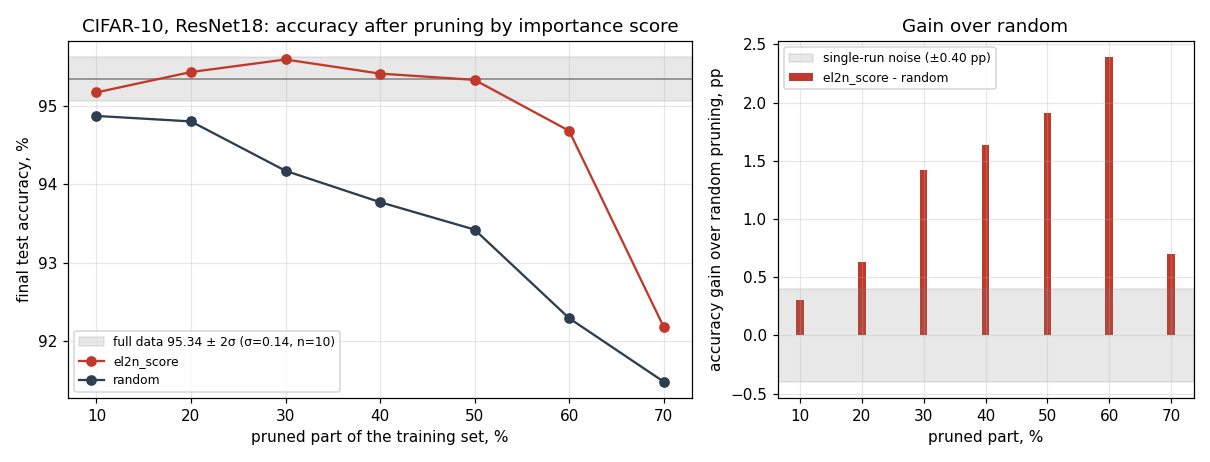
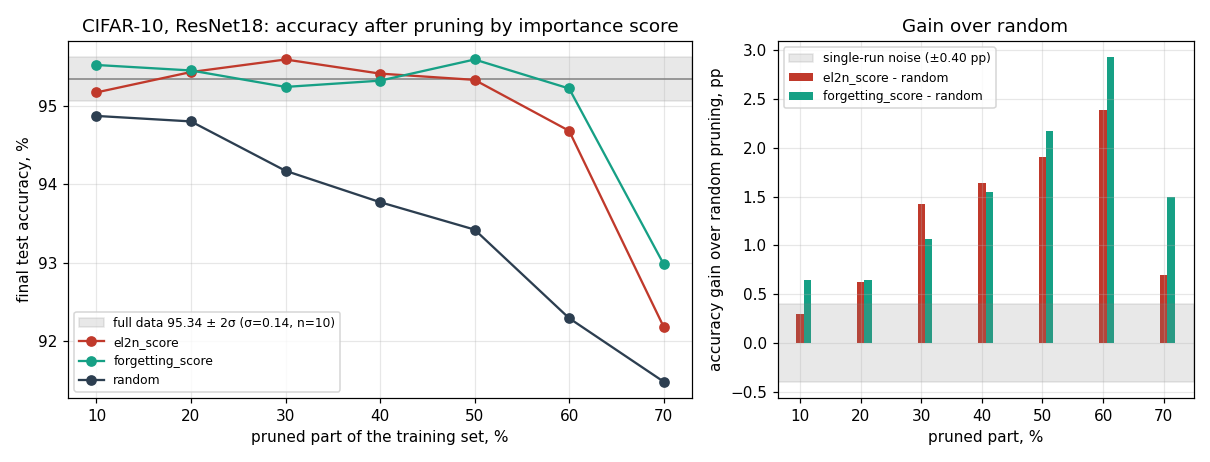
сравнение с pruning по forgetitng score

diff --git a/hw2/data_diet_pytorch/collect_pruning_results.py b/hw2/data_diet_pytorch/collect_pruning_results.py
@@ -1,0 +1,75 @@
+"""Rebuild results/pruning_sweep/pruning_results.csv from EVERY finished pruning run on disk.
+
+    python collect_pruning_results.py [--log-to-mlflow]
+
+run_pruning_sweep.py writes the table from the runs of its own invocation only, so a later sweep (another score type)
+overwrites the rows of earlier ones. This script reads the run directories themselves (exps/pruning/<score type>/
+prune_XX/seed_YYY, valid manifest required) and therefore always gives the complete picture. Then run
+plot_pruning_results.py to draw all score types together.
+"""
+import argparse
+import sys
+from pathlib import Path
+
+import pandas as pd
+from mlflow import MlflowClient
+
+from prune_and_train import PRUNING_ROOT, result_row_from_directory
+from run_logging import MLFLOW_TRACKING_URI, verify_run_directory
+
+RESULTS_DIRECTORY = Path(__file__).resolve().parent / "results" / "pruning_sweep"
+
+
+def collect_finished_runs(pruning_root: Path) -> pd.DataFrame:
+    rows, unfinished = [], []
+    for run_directory in sorted(pruning_root.glob("*/prune_*/seed_*")):
+        if verify_run_directory(run_directory):
+            unfinished.append(str(run_directory))
+            continue
+        score_type = run_directory.parents[1].name
+        prune_fraction = int(run_directory.parent.name.split("_")[1]) / 100
+        seed_run = int(run_directory.name.split("_")[1])
+        rows.append(result_row_from_directory(run_directory, score_type, prune_fraction, seed_run,
+                                              reused_finished_run=True))
+    if unfinished:
+        print(f"ignored {len(unfinished)} unfinished run directories: {unfinished}")
+    return pd.DataFrame(rows).sort_values(["seed_run", "score_type", "prune_fraction"]).reset_index(drop=True)
+
+
+def log_overview_to_mlflow(table: pd.DataFrame, results_directory: Path, experiment: str) -> str:
+    """One mlflow run with a point per prune fraction for every score type (a line chart in the mlflow UI)."""
+    client = MlflowClient(MLFLOW_TRACKING_URI)
+    existing = client.get_experiment_by_name(experiment)
+    experiment_id = existing.experiment_id if existing else client.create_experiment(experiment)
+    run_id = client.create_run(experiment_id, tags={"mlflow.runName": "pruning_overview_all_score_types",
+                                                    "stage": "pruning_overview"}).info.run_id
+    for _, row in table.iterrows():
+        client.log_metric(run_id, f"final_test_accuracy__{row['score_type']}__seed{int(row['seed_run'])}",
+                          float(row["final_test_accuracy"]), step=round(row["prune_fraction"] * 100))
+    for name in ("pruning_results.csv", "pruning_summary_table.csv", "pruning_accuracy_vs_prune_fraction.png",
+                 "pruning_verdicts.txt"):
+        if (results_directory / name).is_file():
+            client.log_artifact(run_id, str(results_directory / name), "pruning_results")
+    client.set_terminated(run_id, "FINISHED")
+    return run_id
+
+
+def main() -> int:
+    parser = argparse.ArgumentParser(description=__doc__, formatter_class=argparse.RawDescriptionHelpFormatter)
+    parser.add_argument("--pruning-root", type=Path, default=PRUNING_ROOT)
+    parser.add_argument("--results-directory", type=Path, default=RESULTS_DIRECTORY)
+    parser.add_argument("--log-to-mlflow", action="store_true", help="after plotting: attach the table and the figure")
+    parser.add_argument("--mlflow-experiment", default="data-diet-pruning")
+    args = parser.parse_args()
+    table = collect_finished_runs(args.pruning_root)
+    args.results_directory.mkdir(parents=True, exist_ok=True)
+    table.to_csv(args.results_directory / "pruning_results.csv", index=False)
+    summary = table.groupby(["score_type", "seed_run"]).size().rename("finished_runs")
+    print(f"{len(table)} finished runs written to {args.results_directory / 'pruning_results.csv'}\n{summary.to_string()}")
+    if args.log_to_mlflow:
+        print("mlflow overview run:", log_overview_to_mlflow(table, args.results_directory, args.mlflow_experiment))
+    return 0
+
+
+if __name__ == "__main__":
+    sys.exit(main())
